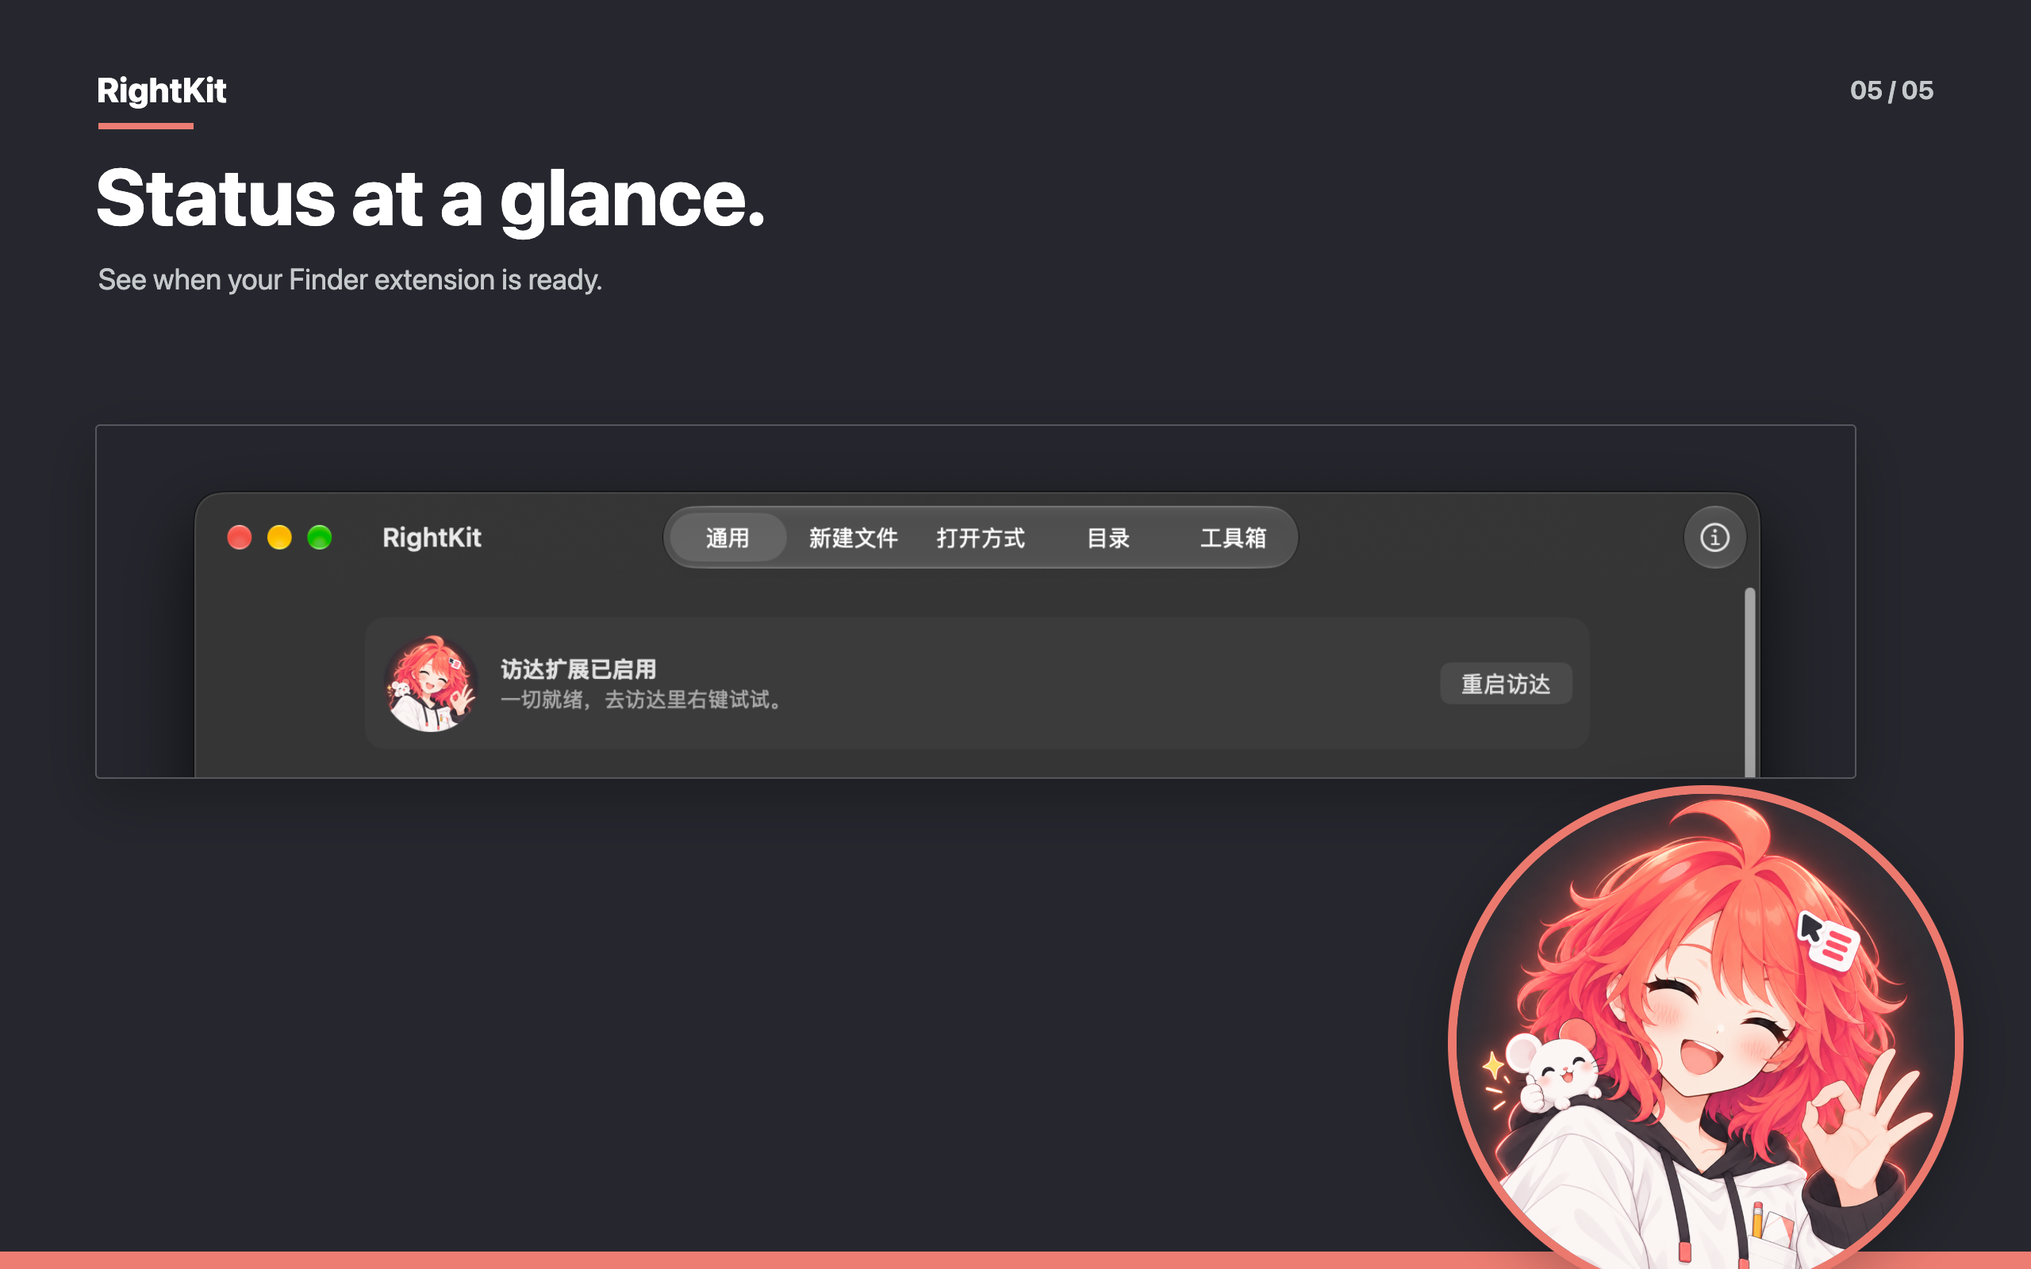
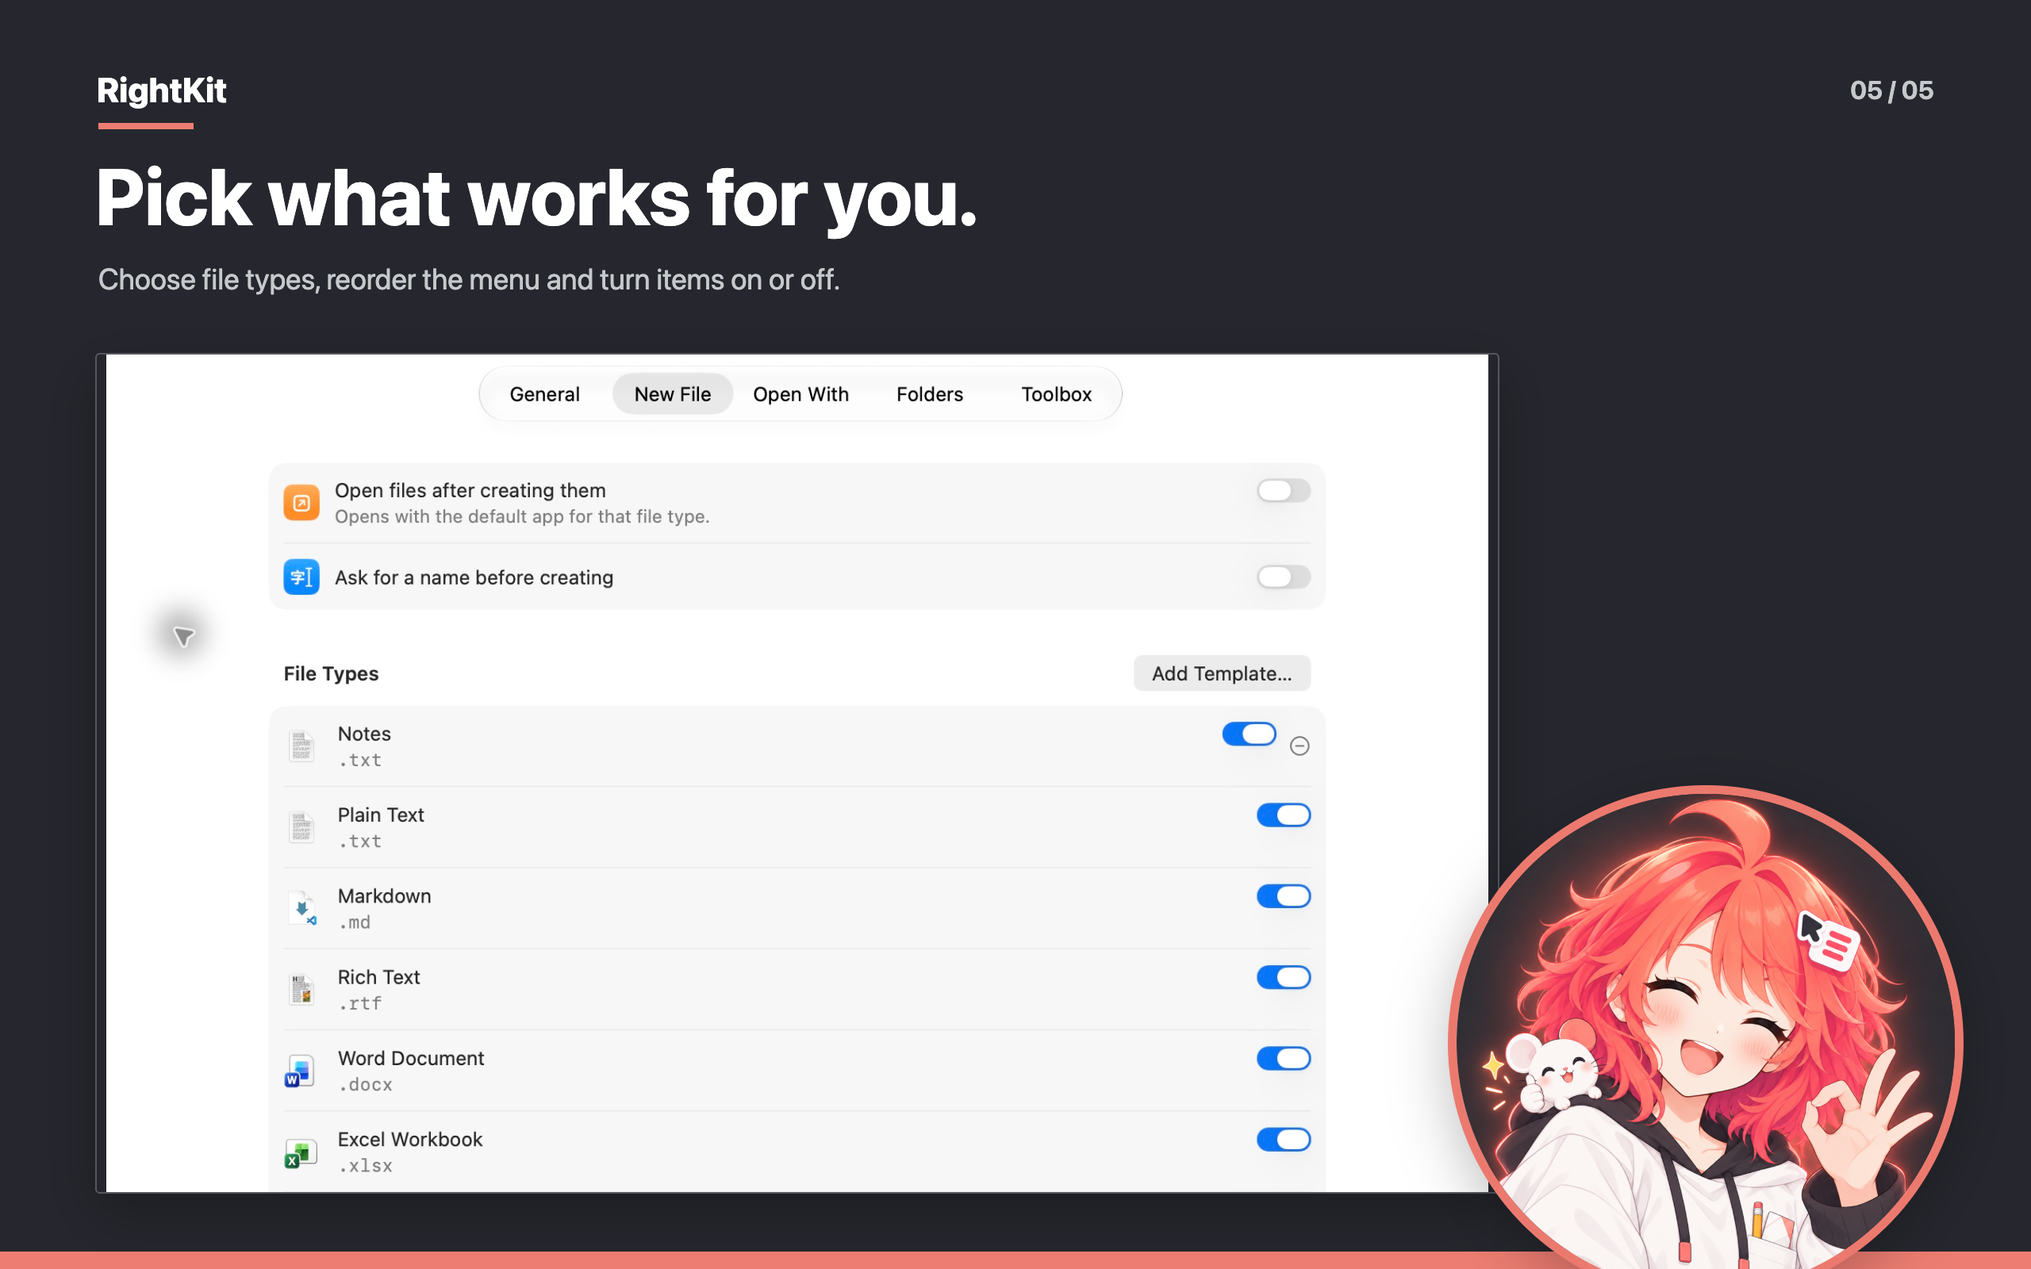
0.1.3 发布准备：版本号、商店文案与重拍截图
- 版本号升到 0.1.3 (7)
- 上架资料：推广文本（已同步线上）、描述措辞、使用前补授权文件夹、补满关键词、0.1.3 新功能说明、截图拍摄要求
- 中英文商店截图按真实界面重拍，第五张改为设置页，已上传 0.1.3 草稿
- 官网新增「想要哪些，自己挑」一节

diff --git a/website/src/index.html b/website/src/index.html
@@ -86,7 +86,7 @@
 
 {% if theme.ak %}<aside class="ak-section-index" aria-label="{{ t.akNav.index }}">
   <span class="ak-section-index-giant" data-ak-section-current aria-hidden="true">00</span>
-  <span class="ak-section-index-count" aria-hidden="true">// <span data-ak-index-current>00</span> / 11</span>
+  <span class="ak-section-index-count" aria-hidden="true">// <span data-ak-index-current>00</span> / 12</span>
   <span class="ak-section-index-title" data-ak-index-title>RIGHTKIT</span>
 </aside>{% endif %}<main id="main">
   <section class="hero band ink" aria-labelledby="hero-title">
@@ -240,10 +240,25 @@
     </div>
   </section>
 
+  <section id="settings" class="band paper cards-section{% if theme.ak %} ak-structure{% endif %}"{% if theme.ak %} data-ak-word="SETTINGS"{% endif %} aria-labelledby="settings-title">
+    <div class="wrap">
+      <p class="section-label reveal"><span>// {{ t.sections.settings.num }}</span>{{ t.sections.settings.label }}</p>
+      <h2 id="settings-title" class="reveal">{{ t.sections.settings.title }}</h2>
+      <p class="body reveal">{{ t.sections.settings.body }}</p>
+      <ul class="cards cards-3">
+        {% for item in t.sections.settings.items %}<li class="card reveal">
+          <svg class="card-ic" aria-hidden="true"><use href="#i-{{ item.icon }}"/></svg>
+          <h3>{{ item.title }}</h3>
+          <p>{{ item.body }}</p>
+        </li>{% endfor %}
+      </ul>
+    </div>
+  </section>
+
 {% if theme.ak %}  <section id="workbench" class="band ink ak-workbench ak-structure" data-ak-word="WORKBENCH" aria-labelledby="workbench-title">
     <div class="wrap ak-workbench-inner">
       <div class="ak-workbench-copy">
-        <p class="section-label reveal"><span>// 05</span>{{ t.akWorkbench.label }}</p>
+        <p class="section-label reveal"><span>// 06</span>{{ t.akWorkbench.label }}</p>
         <h2 id="workbench-title" class="reveal">{{ t.akWorkbench.title }}</h2>
         <p class="body reveal">{{ t.akWorkbench.body }}</p>
         <nav class="ak-workbench-directory" aria-label="{{ t.akWorkbench.title }}">
@@ -258,7 +273,7 @@
   </section>
 {% endif %}  <section id="trust" class="band paper cards-section{% if theme.ak %} ak-structure{% endif %}"{% if theme.ak %} data-ak-word="TRUST"{% endif %} aria-labelledby="trust-title">
     <div class="wrap">
-      <p class="section-label reveal"><span>// {% if theme.ak %}06{% else %}{{ t.sections.trust.num }}{% endif %}</span>{{ t.sections.trust.label }}</p>
+      <p class="section-label reveal"><span>// {% if theme.ak %}07{% else %}{{ t.sections.trust.num }}{% endif %}</span>{{ t.sections.trust.label }}</p>
       <h2 id="trust-title" class="reveal">{{ t.sections.trust.title }}</h2>
       <p class="body reveal">{{ t.sections.trust.body }}</p>
       <ul class="cards cards-3">
@@ -275,7 +290,7 @@
     <div class="wrap">
 {% if theme.ak %}      <div class="ak-world" data-ak-world>
         <div class="ak-world-heading">
-          <p class="section-label reveal"><span>// 07</span>{{ t.akWorld.label }}</p>
+          <p class="section-label reveal"><span>// 08</span>{{ t.akWorld.label }}</p>
           <h2 id="more-title" class="reveal">{{ t.sections.more.title }}</h2>
           <p class="body reveal">{{ t.akWorld.intro }}</p>
         </div>
@@ -308,7 +323,7 @@
     <span class="ak-profile-outline" aria-hidden="true">RIKO</span><span class="ak-profile-rule" aria-hidden="true"></span>
     <div class="wrap ak-profile-inner" data-ak-profile-gallery aria-label="{{ t.profile.galleryLabel }}">
       <div class="ak-profile-info">
-        <p class="section-label reveal"><span>// 08</span>{{ t.profile.name }}</p>
+        <p class="section-label reveal"><span>// 09</span>{{ t.profile.name }}</p>
         <p class="ak-profile-eyebrow">{{ t.profile.eyebrow }}</p>
         <div class="ak-profile-head"><img src="{{ base }}img/app-icon-64.png" width="64" height="64" alt=""><h2 id="profile-title">{{ t.profile.name }}{% if t.profile.localName %} <small>{{ t.profile.localName }}</small>{% endif %}</h2></div>
         <p class="ak-profile-partner"><span aria-hidden="true">◆</span>{{ t.profile.partner }}</p>
@@ -333,7 +348,7 @@
   </section>
 {% endif %}  <section id="pricing" class="band paper pricing"{% if theme.ak %} data-ak-word="PRICING"{% endif %} aria-labelledby="pricing-title">
     <div class="wrap">
-      <p class="section-label reveal"><span>// {% if theme.ak %}09{% else %}{{ t.sections.pricing.num }}{% endif %}</span>{{ t.sections.pricing.label }}</p>
+      <p class="section-label reveal"><span>// {% if theme.ak %}10{% else %}{{ t.sections.pricing.num }}{% endif %}</span>{{ t.sections.pricing.label }}</p>
       <h2 id="pricing-title" class="reveal">{{ t.sections.pricing.title }}</h2>
       <p class="body reveal">{{ t.sections.pricing.body }}</p>
       <ul class="plans">
@@ -380,7 +395,7 @@
   <section id="faq" class="band paper faq"{% if theme.ak %} data-ak-word="FAQ"{% endif %} aria-labelledby="faq-title">
     <div class="wrap faq-inner">
       <div class="faq-head">
-        <p class="section-label reveal"><span>// {% if theme.ak %}10{% else %}{{ t.faq.num }}{% endif %}</span>{{ t.faq.label }}</p>
+        <p class="section-label reveal"><span>// {% if theme.ak %}11{% else %}{{ t.faq.num }}{% endif %}</span>{{ t.faq.label }}</p>
         <h2 id="faq-title" class="reveal">{{ t.faq.title }}</h2>
         <figure class="faq-art reveal">
           <img src="{{ base }}img/feature-empty-error{% if theme.ak %}-ak{% endif %}-480.webp" srcset="{{ base }}img/feature-empty-error{% if theme.ak %}-ak{% endif %}-240.webp 240w, {{ base }}img/feature-empty-error{% if theme.ak %}-ak{% endif %}-480.webp 480w" sizes="200px" width="480" height="720" alt="{{ t.faq.imgAlt }}" loading="lazy" decoding="async">

diff --git a/scripts/appstore/product-image.html b/scripts/appstore/product-image.html
@@ -17,6 +17,7 @@
   .screen { position: absolute; left: 120px; top: 458px; width: 1780px; height: 1060px; overflow: hidden; background: #fff; border: 2px solid #d7e0e0; border-radius: 6px; box-shadow: 0 26px 70px rgba(22, 45, 51, .13); }
   .screen img { display: block; width: 1616px; height: auto; }
   .mascot { position: absolute; z-index: 2; width: 800px; height: 1200px; right: 12px; bottom: -130px; object-fit: contain; object-position: bottom center; filter: drop-shadow(0 27px 30px rgba(35, 40, 46, .13)); }
+  .slide-1 .screen img { width: 1520px; }
   .slide-2 .screen, .slide-3 .screen { top: 428px; height: 1145px; }
   .slide-2 .screen img, .slide-3 .screen img { width: 1540px; }
   .slide-4 .screen { top: 428px; height: 1145px; }
@@ -24,8 +25,8 @@
   .slide-5 { color: #fff; }
   .slide-5 .brand, .slide-5 h1 { color: #fff; }
   .slide-5 .count, .slide-5 .subline { color: #c5c9cb; }
-  .slide-5 .screen { top: 535px; width: 2220px; height: 447px; background: #25262d; border-color: #56565e; box-shadow: 0 26px 70px rgba(0, 0, 0, .24); }
-  .slide-5 .screen img { width: 2220px; }
+  .slide-5 .screen { top: 445px; width: 1770px; height: 1060px; background: #25262d; border-color: #56565e; box-shadow: 0 26px 70px rgba(0, 0, 0, .24); }
+  .slide-5 .screen img { width: 100%; height: 100%; object-fit: contain; }
   .slide-5 .mascot { width: 650px; height: 650px; right: 85px; bottom: -40px; border-radius: 50%; object-fit: cover; border: 11px solid #ec796e; filter: drop-shadow(0 18px 35px rgba(0, 0, 0, .25)); }
 </style>
 <main>
@@ -52,8 +53,8 @@
       zh: ['16 个小工具，收在一个子菜单里。', '路径、哈希、图片和图标，一次右键。'],
       en: ['16 file tools. One submenu.', 'Paths, hashes, images and icons in one place.'] },
     { key: '05-settings', art: 'status-ready.png', bg: '#26272e', accent: '#ed7d72',
-      zh: ['状态一目了然。', '访达扩展是否就绪，打开设置就知道。'],
-      en: ['Status at a glance.', 'See when your Finder extension is ready.'] },
+      zh: ['想要哪些，自己挑。', '新建类型、菜单顺序和开关，都能按习惯调整。'],
+      en: ['Pick what works for you.', 'Choose file types, reorder the menu and turn items on or off.'] },
   ];
   const params = new URLSearchParams(location.search);
   const index = Number(params.get('slide')) - 1;
@@ -67,6 +68,6 @@
   document.querySelector('.count').textContent = `${String(index + 1).padStart(2, '0')} / 05`;
   document.querySelector('h1').textContent = slide[locale][0];
   document.querySelector('.subline').textContent = slide[locale][1];
-  document.querySelector('.screen img').src = `../../docs/evidence/app-store/source/zh/${slide.key}${index === 4 ? '-status.png' : '.jpg'}`;
+  document.querySelector('.screen img').src = `../../docs/evidence/app-store/source/${locale}/${slide.key}.png`;
   document.querySelector('.mascot').src = `../../website/assets/character/${slide.art}`;
 </script>

diff --git a/website/src/ak.js b/website/src/ak.js
@@ -53,8 +53,8 @@ const heroObserver = video && "IntersectionObserver" in window ? new Intersectio
 if (heroObserver) heroObserver.observe(video.closest(".hero"));
 syncMotion();
 
-// Track all eleven chapters in normal document scroll. Native anchors remain available without JS.
-const sections = ["new", "send", "open", "toolbox", "workbench", "trust", "more", "profile", "pricing", "faq", "links"]
+// Track all twelve chapters in normal document scroll. Native anchors remain available without JS.
+const sections = ["new", "send", "open", "toolbox", "settings", "workbench", "trust", "more", "profile", "pricing", "faq", "links"]
   .map((id) => document.getElementById(id)).filter(Boolean);
 const indexNumber = document.querySelector("[data-ak-index-current]");
 const indexTitle = document.querySelector("[data-ak-index-title]");

diff --git a/docs/evidence/app-store/README.md b/docs/evidence/app-store/README.md
@@ -1,13 +1,39 @@
 # App Store 产品图
 
-`zh/` 和 `en/` 各有 5 张 2560 × 1600 PNG，顺序与 [上架资料](../../app-store.md#截图) 一致。用 `node scripts/appstore/render_product_images.mjs` 从真实界面截图和仓库内的 Riko 素材重新渲染。先运行 `npm install --prefix .build/appstore-screenshots --no-save playwright` 安装临时渲染依赖，不修改正式依赖。
+`zh/` 和 `en/` 各有 5 张 2560 × 1600 PNG，顺序与 [上架资料](../../app-store.md#截图) 一致。2026-10-02 已重拍并重新渲染，**已上传到 App Store Connect 的 0.1.3 待提交草稿，尚未提交审核或发布；线上 0.1.2 仍使用旧图**。
 
-## 画面来源与状态
+运行 `node scripts/appstore/render_product_images.mjs` 从 `source/{zh,en}/01` 至 `05` 的真实界面 PNG 和仓库内 Riko 素材重新渲染。临时依赖安装方法：`npm install --prefix .build/appstore-screenshots --no-save playwright`，不修改正式依赖。
 
-- `source/zh/01` 至 `04` 是电脑控制在「RightKit 演示」目录取得的真实 Finder 菜单原图；演示文件名是笔记、发布计划、封面等，不含用户私人文件名。取景时运行的是当前已启用的 RightKit Finder 扩展；这四张并非从上传至 App Store Connect 的安装包重新安装后拍摄。
-- `source/zh/05-settings-status.png` 从既有真机验收截图的顶部裁切，只保留「通用」与「访达扩展已启用」状态，不包含个人主目录路径。
-- 角色使用 `website/assets/character/feature-*.png` 和 `status-ready.png`，没有让模型重画 UI、文字或 Riko 身份特征。
-- `zh/` 为中文产品图，`en/` 的营销标题和说明已英文化，内嵌的真实界面仍是中文。用户已确认接受这个组合；不要用图像模型伪造 Finder 菜单文字。
-- 两套图片已上传 App Store Connect，各 5 张并按 01 至 05 排序；尚未提交审核。发布前仍需逐张检查文案、菜单和角色发卡。
+## 2026-10-02 拍摄与检查
 
-用于 Riko 二次创作的提示词见 [PROMPTS.md](PROMPTS.md)。
+- macOS 27.0.1（26A434）；仓库提交 `52467d5`，0.1.2 (6)，使用商店版 Debug 构建。只为拍摄临时使用独立应用标识 `app.rightkit.capture`、独立 App Group 和进程名；没有改动应用界面源码，也没有覆盖已安装应用或读写其配置。本组截图不是从发布的 `.pkg` 重新安装后拍摄。
+- 只授权拍摄新建的 `RightKit Capture` 演示目录，文件包括 Cover.png、Notes.txt 和 Release Plan.md，发送目标是 Projects、Assets 和 Archive。Finder 侧边栏没有进入产品图，不含个人文件名或路径。
+- 01 为文件夹空白处的新建子菜单；02 为图片的移动目标；03 为图片的应用打开，演示终端和 Xcode；04 为图片工具箱，真实显示 15 项，文件夹专用的「解散文件夹」按规格不出现。
+- 05 为新建文件设置页的顶部取景，包含创建选项、类型开关和通过真实文件选择面板导入的 Notes 自定义模板。取景没有覆盖全部 12 种类型；下方类型和拖动提示仍在真实窗口中。
+- 英文原图使用 Finder 的 `AppleLanguages = (en)` 和 RightKit 的 English 语言。演示配置中的终端显示名同步使用 Terminal。两套源图分别拍摄，没有用模型生成或替换菜单文字。
+- 临时关闭 QQ 闪传、Ghostty 两项、ToDesk 和 Claude 三项服务，以及微信输入法 Finder 扩展。Ghostty 两项实际属于系统服务，QQ 位于「文本」分类。拍摄期间还关闭两个正式 RightKit 扩展，避免重复菜单。
+- 已检查十张产品图的标题、完整子菜单、语言、指针位置和角色遮挡；菜单中没有上述第三方服务或扩展项目。菜单与设置图只是静态展示，不代替功能验收。真实菜单回调见 [拍摄日志](capture/2026-10-02-menu.log)，扩展开关的拍摄前与恢复状态见 `capture/`。
+- 拍摄后已恢复全部服务到原来的开启状态，两个正式 RightKit 和微信输入法扩展均恢复启用；删除 Finder 临时语言键并重启 Finder。演示应用、独立容器和演示文件夹已移到废纸篓，测试扩展已取消注册。
+
+## 取景与素材
+
+原始窗口截图只做裁切和 PNG 编码，没有修字或重画。坐标为 `(左, 上, 右, 下)`：
+
+| 图片 | 两种语言使用的取景坐标 |
+| --- | --- |
+| 01 | `(0, 0, 1900, 1320)` |
+| 02、03 | `(0, 0, 2200, 1450)` |
+| 04 | `(0, 200, 2300, 1846)` |
+| 05 | `(550, 0, 2390, 1115)` |
+
+菜单取景及产品图排版保留完整子菜单和上下余量。`overview.png` 是中英文十张新图的总览。
+
+角色使用 `website/assets/character/feature-*.png` 和 `status-ready.png`。没有重画 Riko。用于既有 Riko 二次创作的提示词见 [PROMPTS.md](PROMPTS.md)。
+
+`source/zh/` 里旧的 JPG 和 `05-settings-status.png` 保留作历史来源，不再被当前渲染器使用。旧图曾上传至 App Store Connect，自 0.1.1 起沿用；旧英文图内嵌中文界面、部分菜单含 QQ/Ghostty、第五张只有状态卡。当前 PNG 已替换 0.1.3 草稿中的中英文截图，线上替换需等该版本审核并发布。
+
+## App Store Connect 上传核对
+
+2026-10-02 使用 asc CLI 创建 macOS `0.1.3` 草稿（版本 ID `196f557e-0fa3-4cc3-901f-3d1404701fb3`，`PREPARE_FOR_SUBMISSION`，手动发布），沿用 0.1.2 的中英文描述、关键词和网址等资料，没有复制旧版本的新功能说明。只替换草稿中的 `APP_DESKTOP` 截图。
+
+`zh-Hans` 和 `en-US` 各 5 张，01 至 05 顺序、每个文件的 MD5 与仓库原图一致，尺寸均为 2560 × 1600，Apple 处理状态全部 `COMPLETE`。校验结果见 [上传记录](capture/2026-10-02-asc-upload.json)。本次没有关联新构建或提交审核。

diff --git a/TASK.md b/TASK.md
@@ -11,7 +11,9 @@
 - [x] 在 App Store Connect 新建 App：bundle ID `app.rightkit.mac.store`，按上架资料填名称、副标题、描述、关键词、隐私政策和技术支持网址、价格、隐私问卷（不收集数据）、年龄分级（4+）。隐私答复已发布。
 - [x] 送审备注：把上架资料里的英文备注贴进 App Review Information，不需要演示账号。
 - [x] App 沙盒信息：用户已删掉 App Sandbox Information 里 `com.apple.security.temporary-exception.apple-events` 那一行，商店版已不再申请。
-- [x] 商店截图：`docs/evidence/app-store/zh` 与 `en` 各 5 张 2560 × 1600 产品图，已上传 App Store Connect 并按 01 至 05 排序。英文产品图用英文介绍配中文实机界面，用户已接受。
+- [x] 商店截图：`docs/evidence/app-store/zh` 与 `en` 各 5 张 2560 × 1600 产品图，已上传 App Store Connect 并按 01 至 05 排序。当时英文产品图用英文介绍配中文实机界面。2026-10-02 已按新的要求重拍本地中英文真实界面，见 [截图记录](docs/evidence/app-store/README.md)。
+- [x] 在 App Store Connect 的 0.1.3 待提交草稿中替换中英文各 5 张新截图；2026-10-02 核对顺序、MD5 和 Apple 处理状态全部通过，见 [上传记录](docs/evidence/app-store/capture/2026-10-02-asc-upload.json)。
+- [ ] 0.1.3 (7)：推 `v0.1.3` 标签构建上传后，关联构建并按上架资料更新描述、关键词和新功能说明，由用户提交审核；截图只有该版本审核并发布后才会替换线上旧图。
 - [x] 上传商店版：本机 `make upload-appstore` 上传 `0.1.1 (4)`；App Store Connect 显示上传完成、二进制已验证。出口合规从 `Info.plist` 读为「否」。
 - [x] 设置 App 供应国家或地区：App Store Connect 显示全部 175 个国家或地区为「App 发布时供应」，包含中国大陆。
 - [x] 付费 App 协议与商务资料：Connect 显示付费协议有效、银行账户可用、报税表使用中；该 App 的欧盟数字服务法交易商声明已提交。
